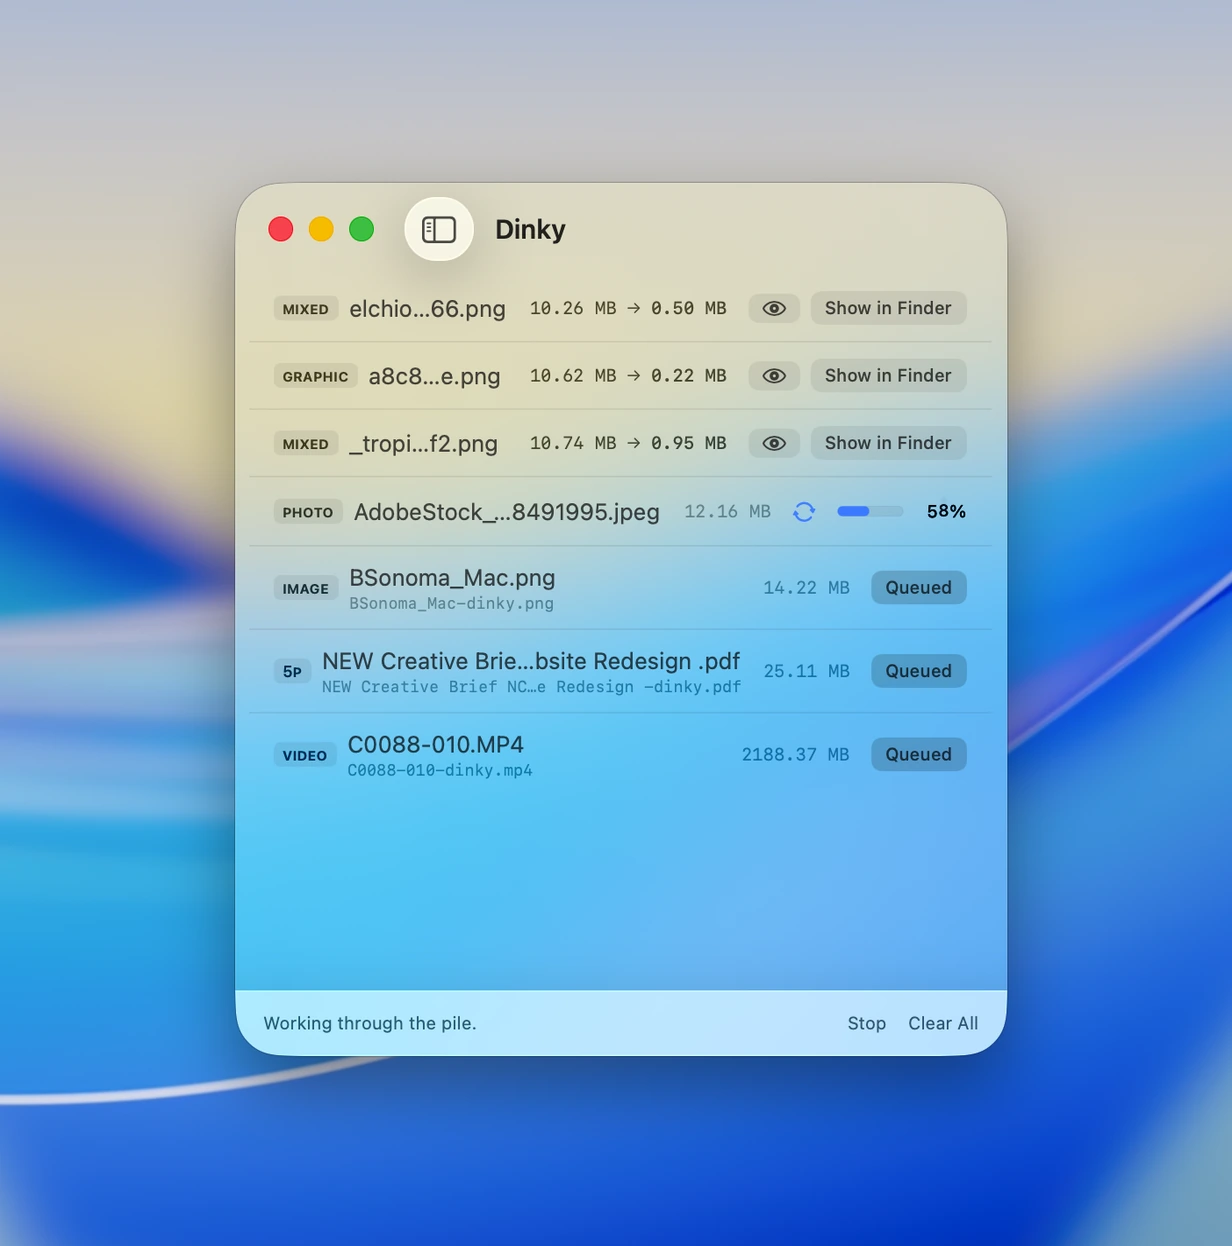
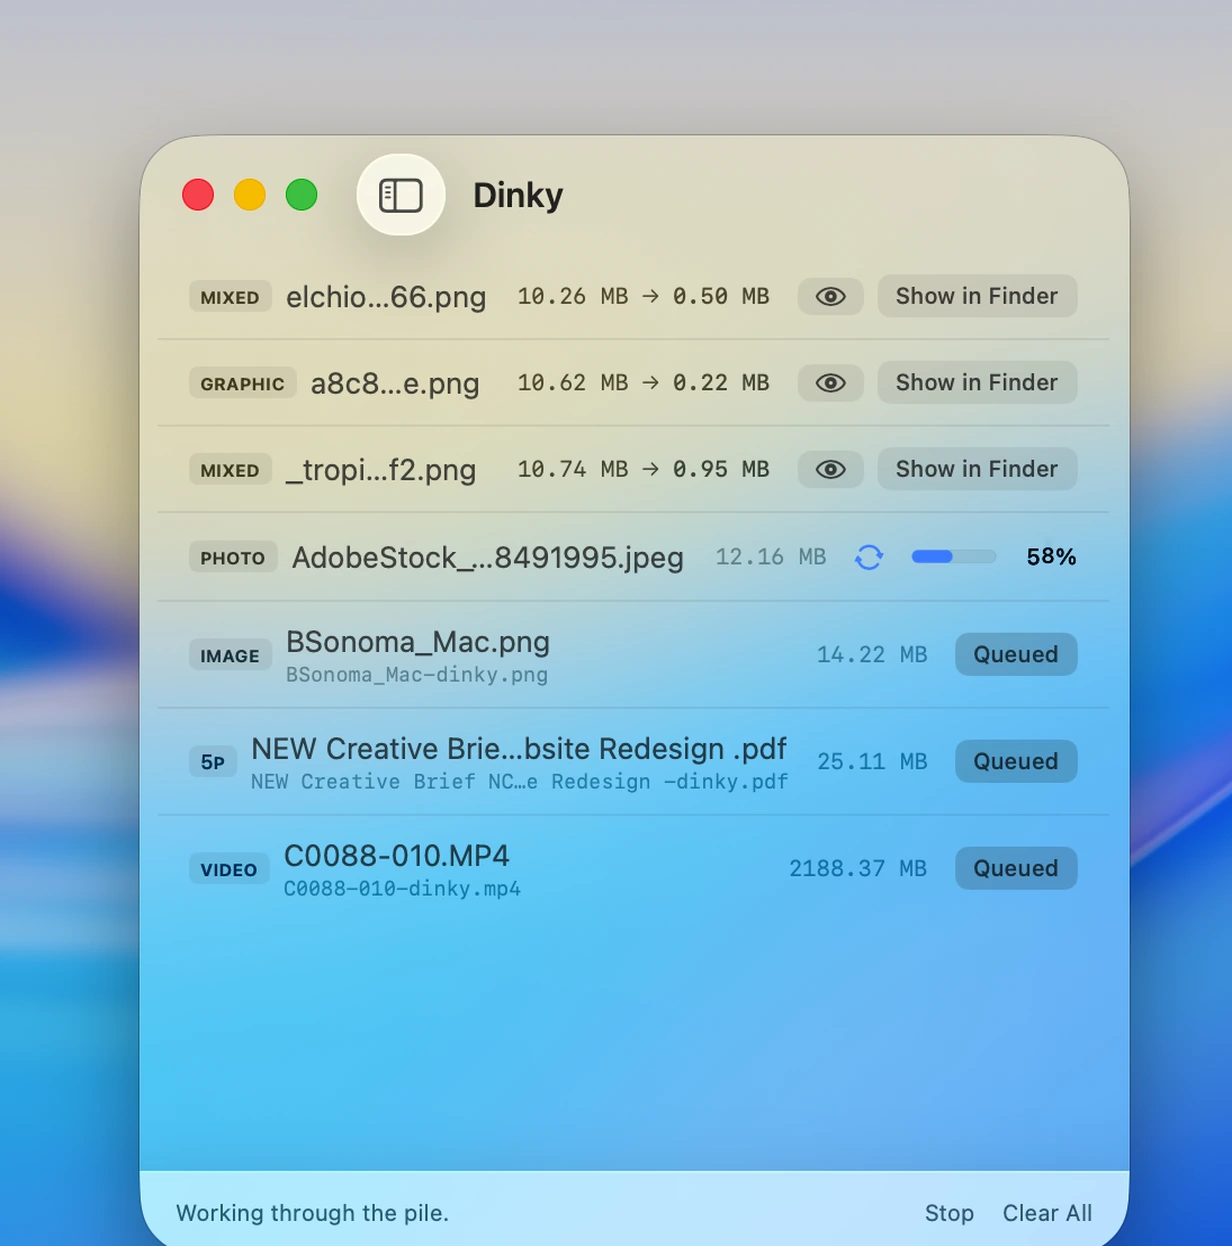
Tighter crop on batch screenshot to match other feature images
Made-with: Cursor

diff --git a/site/index.html b/site/index.html
@@ -1464,7 +1464,7 @@
 
     <!-- Row D: Results list with right-click format menu (image left) -->
     <div class="ss-row">
-      <img src="screenshots/screenshot-results.webp?v=20260420-122611" alt="Dinky results list with batch processing and right-click format menu" />
+      <img src="screenshots/screenshot-results.webp?v=20260420-tight" alt="Dinky results list with batch processing and right-click format menu" />
       <div class="ss-card">
         <div class="ss-card-features">
           <div class="ss-card-feature">
